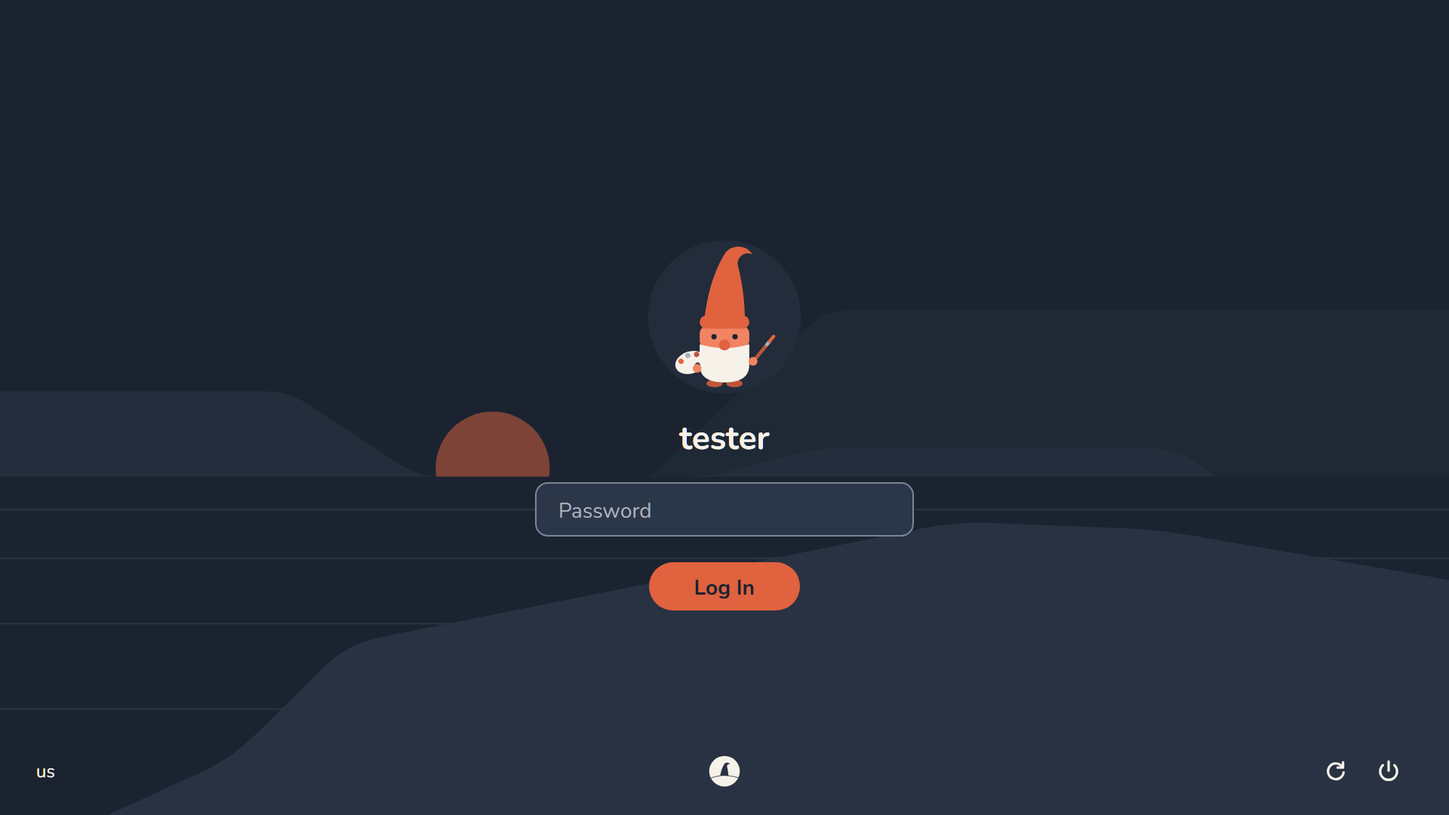
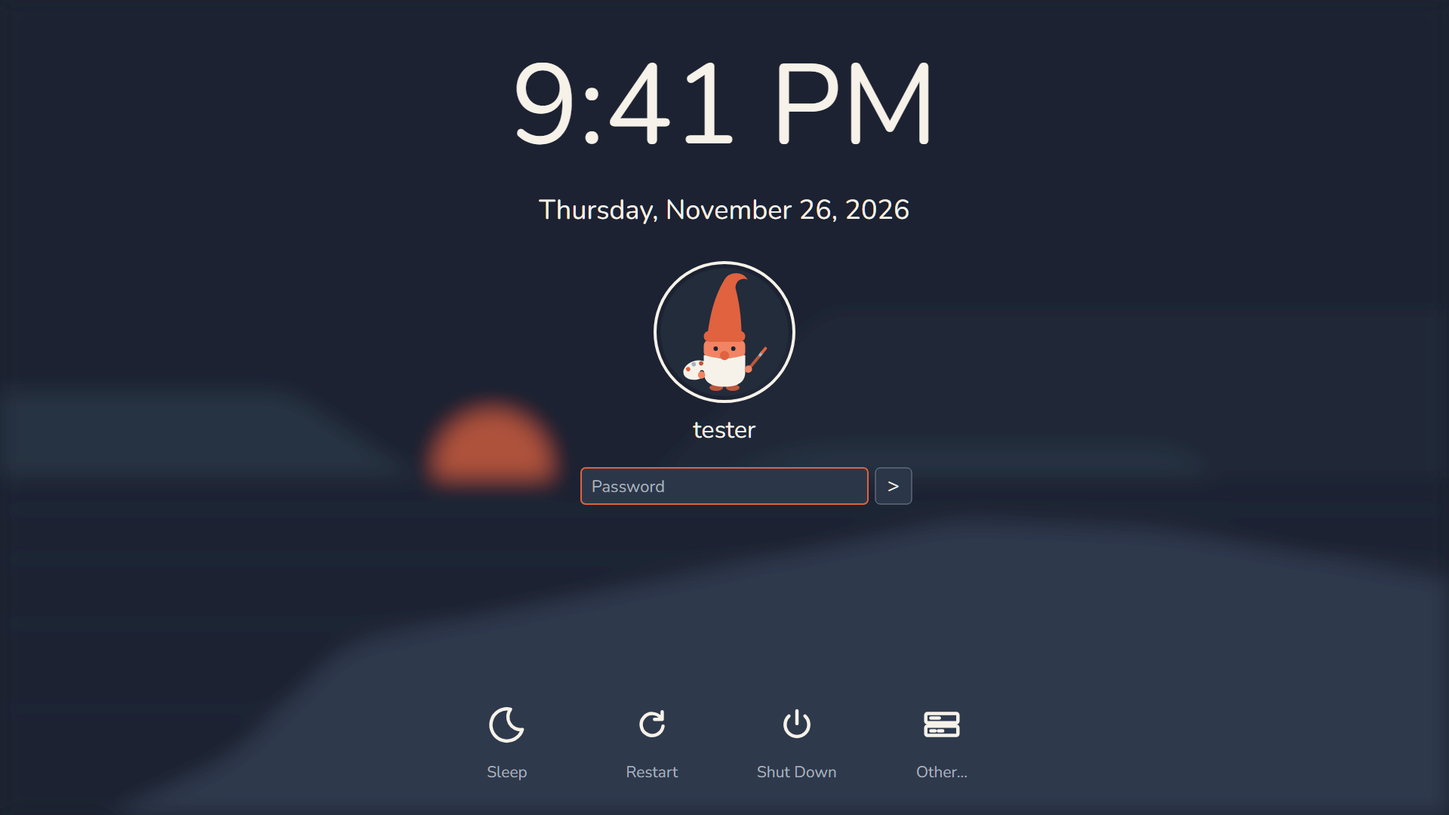
N-503: the login screen shows the nisse wallpaper
Fedora 44's display manager is Plasma Login Manager; its greeter already
takes the nisse colors, font and icons from /etc/xdg/kdeglobals, so only the
wallpaper was Fedora's. nisse-lookandfeel 0.2-6 ships
/usr/lib/plasmalogin/defaults.conf (the nisse wallpaper) and replaces Fedora's
kde-settings-plasmalogin, which ships the same file. No fork, no logo (Bert).
The login mock is redrawn to the real layout. login_check.py judges a
screenshot; the e2e passes on a real boot of the installed disk. Also fixes the
kiwi description test's grub2-script-check step, which always failed in the VM.

Claude-Session: https://claude.ai/code/session_012HaX4wM2HNi6CtaPcZCAUT

diff --git a/tools/art/boot_mocks.py b/tools/art/boot_mocks.py
@@ -120,6 +120,19 @@ def icon_restart(cx, cy, size, color):
             f'stroke-linecap="round" stroke-linejoin="round"><path d="M72 36 A26 26 0 1 0 76 54"/><path d="M74 20 L74 38 L56 38"/></g>')
 
 
+def icon_sleep(cx, cy, size, color):
+    k = size / 100
+    return (f'<g transform="translate({cx - size / 2},{cy - size / 2}) scale({k})" fill="none" stroke="{color}" stroke-width="8" '
+            f'stroke-linecap="round" stroke-linejoin="round"><path d="M58 14 A38 38 0 1 0 86 62 A30 30 0 0 1 58 14 Z"/></g>')
+
+
+def icon_other(cx, cy, size, color):
+    k = size / 100
+    return (f'<g transform="translate({cx - size / 2},{cy - size / 2}) scale({k})" fill="none" stroke="{color}" stroke-width="8" '
+            f'stroke-linecap="round" stroke-linejoin="round"><rect x="12" y="24" width="76" height="22" rx="4"/>'
+            f'<rect x="12" y="54" width="76" height="22" rx="4"/><path d="M24 35 H44"/><path d="M24 65 H34 M42 65 H52"/></g>')
+
+
 def icon_logout(cx, cy, size, color):
     k = size / 100
     return (f'<g transform="translate({cx - size / 2},{cy - size / 2}) scale({k})" fill="none" stroke="{color}" stroke-width="8" '
@@ -178,24 +191,31 @@ def _wall(mode):
     return image(svg_uri(wallpaper.scene(W, H, mode)), 0, 0, W, H)
 
 
-def login(mode):
-    dark = mode == "dark"
-    ink, soft, field, edge = (d("text"), d("text-muted"), d("surface-2"), d("outline")) if dark else (lt("text"), lt("text-muted"), lt("page"), lt("outline"))
-    accent, on_accent = (d("accent"), d("on-accent")) if dark else (lt("accent"), lt("on-accent"))
-    scrim = rect(0, 0, W, H, d("base") if dark else lt("paper"), opacity=0.5)
-    b = [_wall(mode), scrim]
-    b.append(f'<clipPath id="av"><circle cx="{W / 2}" cy="420" r="110"/></clipPath>')
-    b.append(f'<g clip-path="url(#av)">{image(uri(AVATAR), W / 2 - 110, 310, 220, 220)}</g>')
-    b.append(text(W / 2, 595, "tester", 44, ink, 700))
-    b.append(rect(W / 2 - 250, 640, 500, 70, field, rx=16, stroke=edge, sw=2))
-    b.append(text(W / 2 - 220, 686, "Password", 28, soft, 400, "start"))
-    b.append(rect(W / 2 - 100, 745, 200, 64, accent, rx=32))
-    b.append(text(W / 2, 788, "Log In", 28, on_accent, 700))
-    b.append(text(48, 1030, "us", 24, ink, 400, "start"))
-    b.append(icon_restart(W - 150, 1022, 40, ink))
-    b.append(icon_power(W - 80, 1022, 40, ink))
-    b.append(image(uri(ICON_REVERSE if dark else ROOT / "assets/logo/svg/nisse-icon.svg"), W / 2 - 22, 1000, 44, 44))
-    return frame("".join(b), d("base") if dark else lt("paper"))
+def login(mode="dark"):
+    """The login screen as Plasma Login Manager really draws it (N-503: Bert chose to keep Plasma's own greeter, no fork). nisse sets the
+    wallpaper (blurred as soon as someone touches a key) and, through the system default, the colors, the font and the icons; the layout
+    is Plasma's: the clock and the date, the round avatar with its ring, the name, the password box with its eye and the arrow, and
+    Sleep, Restart, Shut Down and Other at the bottom. Dark only: the greeter has one look, the system default. The greeter tints its
+    text warmer than the palette's Paper; the mock keeps to the palette."""
+    ink, soft, field, edge = d("text"), d("text-muted"), d("surface-2"), d("outline")
+    cx = W / 2
+    b = [f'<defs><filter id="soft" x="-5%" y="-5%" width="110%" height="110%"><feGaussianBlur stdDeviation="14"/></filter></defs>',
+         f'<g filter="url(#soft)">{_wall("dark")}</g>', rect(0, 0, W, H, d("base"), opacity=0.25)]
+    b.append(text(cx, 190, "9:41 PM", 150, ink, 400))
+    b.append(text(cx, 290, "Thursday, November 26, 2026", 36, ink, 400))
+    b.append(f'<clipPath id="av"><circle cx="{cx}" cy="440" r="92"/></clipPath>')
+    b.append(f'<g clip-path="url(#av)">{image(uri(AVATAR), cx - 92, 348, 184, 184)}</g>')
+    b.append(f'<circle cx="{cx}" cy="440" r="92" fill="none" stroke="{ink}" stroke-width="4"/>')
+    b.append(text(cx, 580, "tester", 32, ink, 400))
+    b.append(rect(cx - 190, 620, 380, 48, field, rx=6, stroke=d("accent"), sw=2))
+    b.append(text(cx - 176, 652, "Password", 22, soft, 400, "start"))
+    b.append(rect(cx + 200, 620, 48, 48, field, rx=6, stroke=edge, sw=1))
+    b.append(text(cx + 224, 652, ">", 26, ink, 400))
+    for i, (label, icon) in enumerate((("Sleep", icon_sleep), ("Restart", icon_restart), ("Shut Down", icon_power), ("Other...", icon_other))):
+        x = cx - 288 + i * 192
+        b.append(icon(x, 960, 56, ink))
+        b.append(text(x, 1030, label, 21, soft, 400))
+    return frame("".join(b), d("base"))
 
 
 def lock(mode):
@@ -250,8 +270,7 @@ SURFACES = [
     ("plymouth-boot-late", "Plymouth, Later Frame", lambda: plymouth(0.85)),
     ("splash-dark", "Plasma splash after login (N-505), dark: the n and the comet", lambda: splash("dark")),
     ("splash-light", "Plasma Splash, Light", lambda: splash("light")),
-    ("login-dark", "Login Screen (N-503), Dark", lambda: login("dark")),
-    ("login-light", "Login Screen, Light", lambda: login("light")),
+    ("login-dark", "Login Screen (N-503)", lambda: login("dark")),
     ("lock-dark", "Lock Screen (N-504), Dark", lambda: lock("dark")),
     ("lock-light", "Lock Screen, Light", lambda: lock("light")),
     ("logout-dark", "Logout, restart and shut down (N-504), dark", lambda: logout("dark")),

diff --git a/tools/vm/login_check.py b/tools/vm/login_check.py
@@ -1,0 +1,69 @@
+#!/usr/bin/env python3
+# SPDX-License-Identifier: GPL-2.0-or-later
+"""N-503: judge screenshots of the login screen (Plasma Login Manager's greeter in a VM, `vmserver.py call PORT shot`).
+
+    login_check.py --idle  SHOT [SHOT ...]    the screen nobody has touched: the nisse wallpaper sharp (dark, with the Ember sun), the clock
+    login_check.py --awake SHOT [SHOT ...]    after a key press: the greeter blurs the wallpaper, so the sun is only a soft glow
+
+The greeter's own layout (clock, avatar, password box) is Plasma's, so this judges what nisse sets: the wallpaper and the colors. It
+refuses Fedora's cityscape (bright blue-violet), a bright screen, a missing sun and a missing clock. Exit 0 when every picture passes,
+1 otherwise (the reasons are printed), 64 for a wrong command line.
+"""
+import sys
+from dataclasses import dataclass, field
+
+import numpy as np
+from PIL import Image
+
+
+@dataclass
+class Result:
+    ok: bool
+    problems: list = field(default_factory=list)
+
+
+MAX_MEAN_LUMINANCE = 55        # the nisse wallpaper is dark (measured 42); Fedora's cityscape is 63 to 76
+MAX_BLUE_SHARE = 0.02          # pixels clearly blue (Fedora's cityscape: more than a quarter of the screen, nisse: none)
+MIN_SUN_IDLE = 1500            # Ember pixels of the sharp sun (measured 5780)
+MIN_SUN_AWAKE = 300            # the blurred sun still glows (measured 674)
+MIN_CLOCK = 4000               # light peach pixels of the clock and date (measured 10000 to 12000)
+
+
+def check_login(img, awake):
+    a = np.asarray(img.convert("RGB")).astype(int)
+    r, g, b = a[:, :, 0], a[:, :, 1], a[:, :, 2]
+    problems = []
+    if a.mean() > MAX_MEAN_LUMINANCE:
+        problems.append(f"the screen is not dark enough (mean brightness {a.mean():.0f}, at most {MAX_MEAN_LUMINANCE}): not the nisse wallpaper")
+    blue = ((b - r > 60) & (b > 100)).mean()
+    if blue > MAX_BLUE_SHARE:
+        problems.append(f"{blue * 100:.0f}% of the screen is blue: this is Fedora's cityscape, not the nisse wallpaper")
+    sun = int(((r > 150) & (r - b > 90) & (g > 40) & (g < 130)).sum())
+    need = MIN_SUN_AWAKE if awake else MIN_SUN_IDLE
+    if sun < need:
+        problems.append(f"no Ember sun in the wallpaper ({sun} Ember pixels, at least {need})")
+    top = a[: a.shape[0] // 3]
+    clock = int(((top[:, :, 0] > 220) & (top[:, :, 1] > 180) & (top[:, :, 1] < 235) & (top[:, :, 2] > 130) & (top[:, :, 2] < 200)).sum())
+    if clock < MIN_CLOCK:
+        problems.append(f"no clock at the top of the screen ({clock} light peach pixels, at least {MIN_CLOCK})")
+    return Result(not problems, problems)
+
+
+def main(argv=None):
+    argv = sys.argv[1:] if argv is None else argv
+    if not argv or argv[0] not in ("--idle", "--awake") or len(argv) < 2:
+        print(__doc__)
+        return 64
+    awake = argv[0] == "--awake"
+    bad = 0
+    for p in argv[1:]:
+        res = check_login(Image.open(p), awake)
+        print(("ok   " if res.ok else "FAIL ") + p)
+        for problem in res.problems:
+            print("       " + problem)
+        bad += 0 if res.ok else 1
+    return 1 if bad else 0
+
+
+if __name__ == "__main__":
+    sys.exit(main())

diff --git a/tools/vm/tests/test_login_check.py b/tools/vm/tests/test_login_check.py
@@ -1,0 +1,58 @@
+# SPDX-License-Identifier: GPL-2.0-or-later
+"""N-503: the checker that judges a screenshot of the login screen (Plasma Login Manager's greeter in the VM). The real screenshots of the
+screen before and after the nisse wallpaper stand in as the good and the bad pictures, and damaged copies must be refused, so the
+checker is known to be able to say no."""
+import sys
+from pathlib import Path
+
+from PIL import Image, ImageDraw
+
+HERE = Path(__file__).resolve().parent
+sys.path.insert(0, str(HERE.parent))
+
+import login_check as lc  # noqa: E402
+
+SHOTS = HERE.parents[2] / "docs" / "screenshots"
+
+
+def shot(name):
+    return Image.open(SHOTS / name).convert("RGB")
+
+
+def test_the_nisse_login_screen_passes_idle_and_awake():
+    assert lc.check_login(shot("n503-login-nisse-idle.png"), awake=False).ok
+    r = lc.check_login(shot("n503-login-nisse-awake.png"), awake=True)
+    assert r.ok, r.problems
+
+
+def test_fedoras_own_cityscape_is_refused_idle_and_awake():
+    r = lc.check_login(shot("n503-login-before-fedora-idle.png"), awake=False)
+    assert not r.ok and any("blue" in p for p in r.problems), r.problems
+    r = lc.check_login(shot("n503-login-before-fedora-awake.png"), awake=True)
+    assert not r.ok and any("blue" in p for p in r.problems), r.problems
+
+
+def test_an_idle_screen_without_the_sun_is_refused():
+    img = shot("n503-login-nisse-idle.png")
+    ImageDraw.Draw(img).rectangle((300, 380, 560, 480), fill=(0x1e, 0x20, 0x24))
+    r = lc.check_login(img, awake=False)
+    assert not r.ok and any("sun" in p for p in r.problems), r.problems
+
+
+def test_a_screen_without_the_clock_is_refused():
+    img = shot("n503-login-nisse-idle.png")
+    ImageDraw.Draw(img).rectangle((380, 40, 900, 270), fill=(0x1e, 0x20, 0x24))
+    r = lc.check_login(img, awake=False)
+    assert not r.ok and any("clock" in p for p in r.problems), r.problems
+
+
+def test_a_bright_screen_is_refused():
+    img = Image.new("RGB", (1280, 800), (200, 200, 200))
+    r = lc.check_login(img, awake=False)
+    assert not r.ok and any("dark" in p for p in r.problems), r.problems
+
+
+def test_the_command_line_exits_1_on_a_bad_picture_and_0_on_a_good_one(capsys):
+    assert lc.main(["--idle", str(SHOTS / "n503-login-nisse-idle.png")]) == 0
+    assert lc.main(["--awake", str(SHOTS / "n503-login-before-fedora-awake.png")]) == 1
+    assert lc.main([]) == 64

diff --git a/tools/art/tests/test_boot_mocks.py b/tools/art/tests/test_boot_mocks.py
@@ -32,7 +32,7 @@ def drawn(name):
 
 
 def test_every_surface_the_ledger_names_is_mocked():
-    for want in ("grub-menu", "grub-menu-live", "plymouth-boot", "splash-dark", "splash-light", "login-dark", "login-light", "lock-dark", "lock-light",
+    for want in ("grub-menu", "grub-menu-live", "plymouth-boot", "splash-dark", "splash-light", "login-dark", "lock-dark", "lock-light",
                  "logout-dark", "logout-light"):
         assert want in NAMES
 
@@ -115,7 +115,7 @@ def test_the_grub_menus_name_their_entries_in_plain_words_with_a_clear_default()
 
 def test_the_ember_fill_carries_ink_text_never_paper():
     """Palette rule: Paper on Ember is only 3.1:1. Check the texts drawn on an Ember button or row in the dark mocks."""
-    for name in ("grub-menu", "grub-menu-live", "login-dark", "logout-dark"):
+    for name in ("grub-menu", "grub-menu-live", "logout-dark"):
         svg = drawn(name)
         assert boot_mocks.d("on-accent") in svg
 
@@ -148,3 +148,15 @@ def test_rendering_makes_a_1920_by_1080_png_with_the_ink_background_and_ember_bl
     assert im.getpixel((5, 5)) == tuple(int(boot_mocks.d("base")[i:i + 2], 16) for i in (1, 3, 5))
     ember = tuple(int(boot_mocks.d("accent")[i:i + 2], 16) for i in (1, 3, 5))
     assert any(im.getpixel((x, 760)) == ember for x in range(740, 1180))
+
+
+def test_the_login_mock_is_the_screen_plasma_login_really_draws():
+    """N-503 (Bert, 2026-11-26: keep Plasma's own greeter, no fork): the mock shows what the VM shows, a blurred nisse wallpaper under the
+    clock, the date, the round avatar, the name, a password box with its eye and arrow, and Sleep, Restart, Shut Down and Other at the
+    bottom. There is no Log In pill, no logo, and no light version: the greeter has one look (the system default, dark)."""
+    assert "login-light" not in NAMES
+    svg = drawn("login-dark")
+    for words in ("9:41 PM", "Thursday, November 26, 2026", "tester", "Password", "Sleep", "Restart", "Shut Down", "Other..."):
+        assert f">{words}<" in svg, words
+    assert "feGaussianBlur" in svg, "the greeter blurs the wallpaper once someone touches a key"
+    assert ">Log In<" not in svg

diff --git a/tests/build/render_menu.py b/tests/build/render_menu.py
@@ -1,0 +1,19 @@
+# SPDX-License-Identifier: GPL-2.0-or-later
+"""Fills in the nisse live ISO's GRUB menu template the way kiwi does and prints the result, for tests/build/test_kiwi_description.sh to run
+through grub2-script-check.
+
+grub2-script-check cannot parse a function defined inside an if (real GRUB can, and boots this template: the N-502 photos), so the platform
+block that defines load_video is swapped for one plain definition; everything else is checked as it is.
+
+    python tests/build/render_menu.py TEMPLATE
+"""
+import string
+import sys
+
+template = string.Template(open(sys.argv[1], encoding="ascii").read())
+out = template.substitute(search_params="--file --set=root /boot/0x12345678", terminal_output="console", boot_timeout="10",
+                          boot_timeout_style="menu", bootpath="/boot/x86_64/loader", kernel_file="linux", initrd_file="initrd",
+                          boot_options="quiet root=live:CDLABEL=nisse-0.2 rd.live.image")
+start = out.index('if [ "$grub_platform"')
+end = out.index("\nfi\n", start) + 4
+print(out[:start] + 'function load_video {\n\tinsmod all_video\n}\nset basicgfx="nomodeset"\n' + out[end:])

diff --git a/docs/planning/TASK-LEDGER.md b/docs/planning/TASK-LEDGER.md
@@ -229,7 +229,7 @@ record and N-416 reconciles them (it runs after GATE 3). Items verdict "keep" st
 - [x] **N-502** `[build]` **DONE 2026-11-26. GRUB theme, live ISO and installed system.** Bert's answers: the live ISO's menu is nisse, Computer Settings and a More Ways to Start submenu (media check, basic graphics); an installed system's is nisse, Start from Earlier Snapshots (his wording), Computer Settings and More Ways to Start (the older kernels); the countdown line reads "nisse starts in 4 s."; GRUB cannot center a row's text, so the rows are left-aligned and the mock was redrawn (grub-menu, grub-menu-live); he kept both surfaces in this task. SPIKE first (GRUB 2.12, BIOS and UEFI, QEMU): the theme draws on both and the signed UEFI GRUB has png, gfxmenu and gfxterm built in; the countdown label and bar work and fill as the time runs out; GRUB's own hint lines stay hidden; hotkeys work. Limits found and built into the tests (tools/art/grub_theme.py): the first-listed component is drawn on top, a progress bar is at least 28 px high, the selected row is as tall as the item plus two borders, the label takes one number and cannot say "1 second". LIVE ISO: tools/art/grub_theme.py draws the theme from the Ember palette (16 tests); the package nisse-grub-theme 0.1-2 makes the Nunito GRUB fonts at build time and adds GRUB's unicode font; build/kiwi/nisse/grub-x86.cfg.iso-template is nisse's own menu (Fedora's vendored one stays as published) and nisse-live.xml names it, the theme and the package; kernel line: the development ISO keeps console=ttyS0 for the tests, a release build must not (filed as N-918a); tools/vm/grub_overlay.sh, grub_boot.sh and grub_check.py (12 tests) make and photograph a 70 MB copy of the live ISO that boots to the menu, with the template filled in the way kiwi fills it: BIOS and UEFI photos match the mock (docs/screenshots/n502-grub-live-bios.png, -uefi.png); smoke-boot.sh keys updated (Up then Enter; m then Enter for the media check). INSTALLED SYSTEM: Fedora's blscfg lists every entry file as "nisse (6.19.10-300.fc44.x86_64) 0.2" and has no filter (the new --show-default options are in a module that does not register blscfg), and a GRUB function named blscfg does NOT replace it (the command wins; seen on an installed disk). What works: blscfg reads the directory in the variable blsdir, so nisse-boot 0.1-2 gains `nisse-boot menu`, which writes copies of the entry files with plain titles into /boot/loader/nisse-main (the newest kernel, "nisse") and nisse-more (older kernels, the rescue kernel) and two pointer files; 09_nisse_menu sources the pointer before 10_linux's blscfg call (no pointer file means the stock list shows: checked, it boots), 35_nisse_more_ways is the More Ways to Start submenu, 98_nisse_menu_refresh writes the rows again after grub2-mkconfig (which rewrites the options of every entry file), a kernel-install plugin keeps them current, 30_nisse_firmware is Computer Settings (Fedora's 30_uefi-firmware is switched off by the package and again after each grub2-tools update), 11_nisse_snapshots says Start from Earlier Snapshots and Go Back to the Last Good Version; the theme is turned on by 01_nisse_theme from the boot partition (never the root subvolume, which a rollback swaps), the serial console stays, and an install step copies the theme to /boot/grub2/themes/nisse. PROOF on the installed disk (tests/e2e/test_grub_menu_installed.sh, a real QEMU boot of the N-303 disk): the three packages install; the main row's options are the entry file's after grub2-mkconfig; Fedora's firmware row is gone; the screen is the approved menu with 4 rows (judged by grub_check.py; docs/screenshots/n502-grub-installed.png) and no row is titled with a kernel version; the first row boots; the hotkey m then the first row boots an older kernel entry (a second entry file was faked; docs/screenshots/n502-grub-more-ways.png); and without nisse's pointer file the stock list is there and boots. 15 new shell tests for the generator, the package tests of nisse-boot and nisse-grub-theme, and the repo tests pass. TESTS CHANGED: the kiwi description test (template, theme, package, a stray dollar sign), the ISO contents test (a boot menu block, red until the rebuild), approved-art, tracked files, the mock tests; the rollback net's own test (tests/e2e/test_boot_fallback.sh) now picks the snapshot row one row down, and its real boots all passed on the new menu (a keyboard pick of a snapshot, the counted fallback, a garbage rollback file, a missing kernel) except one wait that read the menu file too early (a race in the test's own loop on a loaded host; the loop now waits for the newest snapshot; the 30-minute run was not repeated). NOT VERIFIED: the rebuilt ISO itself (kiwi resolving the template path and copying the theme: the queued rebuild checks in docs/boot-art.md), Secure Boot enforcement (the modules are built into the signed image, but a Secure Boot boot was not run), a screen size other than 1920 x 1080 (N-502b), and a real kernel update through dnf (the plugin is tested as a script and the same code runs from nisse-boot-setup). *Source:* roadmap 1.9; submission `boot/request-grub-boot-menu-background-and-logo`. Bert's live run (2026-11-15): the menu should be much more graphical and user friendly than the stock text menu: a themed background, readable entries named in plain words, the default choice obvious, and no cryptic boot options on screen (advanced ones stay one key away). FROM N-501 (2026-11-25): the live ISO's kernel line carries `console=ttyS0` for the smoke test, and a serial console makes Plymouth force its text theme, so it also carries `plymouth.ignore-serial-consoles`; the plain "nisse" entry a person boots should not carry `console=ttyS0` at all (the smoke test boots another entry or an override), and the ISO contents test refuses a serial console without that option. *Done when:* VM screenshot of the menu on the ISO and on an installed disk. *Depends:* N-412, N-303. FROM N-501b: the menu line and the hint are "nisse starts in N seconds." and "Press E to change how nisse starts." (closed sentences); the entries stay bare labels. FROM N-501c (done): the entries are "nisse", "Earlier Versions of nisse" and "Computer Settings".
 - [x] **N-502b** `[build]` **DONE 2026-11-26. The GRUB menu fits every screen size.** Bert chose three themes (4K, 1080p, compact), then the SPIKE showed that cannot work: GRUB's gfxterm adds ";auto" to any mode list it is given (so a request never fails) and no variable or command reports the mode it got (GRUB 2.12 source, confirmed in QEMU: three tries in a loop all "succeeded" at the firmware's own 1280 x 800), so a theme chosen at run time is impossible. Bert then chose ONE layout that fits every size, and agreed the pieces shrink about 13% so the four-row menu fits a 1280 x 720 screen: logo 200 px, rows 60 px high 72 apart, row text 28 px (countdown 22, hint 18), bar 490 x 28, and every vertical position a percentage of the screen's height (logo 5%, rows 36%, countdown 76%, bar 82%, hint 93%; GRUB drops the fraction, measured). The mode list is `1920x1080,auto`. tools/art/grub_theme.py gained `layout(width, height, rows)` and the supported sizes (1920 x 1080, 1366 x 768, 1360 x 768, 1280 x 720, 1024 x 768); tests check that nothing overlaps or leaves the screen at any size, that the bar stays one size and centered, and that the selected row's space equals the others' (7 px at 28). The padding that centers the titles is the same count at any size (text and spaces scale together; every title within 12 px). The mock is drawn per size (grub-menu, -live, -1366x768, -1360x768, -1280x720, -1024x768; the sheet shows them) and grub_check.py judges a photo at its own size (4 new tests). PROOF: live ISO photos in UEFI at 1920 x 1080, 1280 x 720 and 1024 x 768 and in BIOS at the same three pass the checker at their own size (docs/screenshots/n502b-grub-uefi-*.png; the sizes come from `NISSE_GFXMODE` in grub_overlay.sh, a test-only override); the installed disk's e2e passes with the new layout at 1080p. NOT VERIFIED: 1366 x 768 itself (QEMU draws that mode with a broken stride, 1360 wide; the layout depends only on the height), the installed disk at a small size (it shares the theme), a 4K screen that offers no 1080p (the menu is whole but small), and the rebuilt ISO (queued with N-502). Fonts are now 28, 22 and 18 px (nunito-*-28/22/18.pf2). *Source:* N-502 spike. *Done when:* a VM photo of the menu at 1366 x 768 and at 3840 x 2160 fits the screen and matches its mock, and the choice is in the theme folder and the checker. *Depends:* N-502. FROM N-502c: a title's padding is worked out for the row width (TEXT_W in grub_theme.py); a theme for another size recomputes it.
 - [x] **N-502c** `[build]` **DONE 2026-11-26. The GRUB menu rows are centered.** Bert's answers: pad the titles with spaces (not pictures), and only the rows with fixed words: the changing rows (older kernels, dated snapshots) stay left-aligned. `tools/art/grub_theme.py` works out the padding from the font's advance widths (`advance`, `pad_count`, `padded`): grub2-mkfont stores every advance as whole pixels, and a Bold space is 9 px but a Regular one 8, which put a padded selected row 20 px off in the first photo, so the selected row is now **SemiBold** (space 8 px, the heaviest weight that keeps it; the mock's selected text is weight 600 too) with its own font name, "Nunito SemiBold Regular 32" (grub2-mkfont names a font from its family and only Regular or Bold, so the package passes `-n`). The padded titles are in the live template and in the grub.d snippets (30_nisse_firmware, 35_nisse_more_ways, 11_nisse_snapshots), kept equal to the computed ones by tests; "Start nisse with the Serial Port as the Console" became "Start nisse with a Serial Console" so it fits the row. The main kernel row's title is in a BootLoaderSpec copy, and GRUB's BLS parser (read in the source) skips every space after the key, so nisse-boot pads it with 39 U+00A0 written as `\302\240` (the file stays ASCII; `main_pad` is tested against the computed count). The mock (grub-menu, grub-menu-live) is centered again; `grub_check.py` gained a centered-words check (12 tests). PROOF: live ISO photos in BIOS and UEFI (docs/screenshots/n502-grub-live-bios.png, -uefi.png) have every row's words within 4 px of the screen's middle and pass the checker; the installed disk's e2e (tests/e2e/test_grub_menu_installed.sh, a real boot) passes with the centered rows judged by the same checker, the first row booting and More Ways to Start booting an older kernel entry. NOT VERIFIED: the rebuilt ISO (queued with N-502), and the submenus' changing rows stay left-aligned by decision. *Source:* Bert, after N-502. *Done when:* the live ISO's and the installed system's menu rows are centered in a VM photo (BIOS and UEFI), the mock is the approved centered one again, and the checker measures it. *Depends:* N-502; do it before N-502b so the other sizes are built once.
-- [ ] **N-503** `[build]` **Login screen theme.** Confirm the manager in Fedora 44 (the notes say plasmalogin) and brand it: background, logo, font. *Source:* roadmap 1.8. *Done when:* VM screenshot of the login screen. *Depends:* N-407, N-412. FROM N-501b: any sentence on the login screen ends with punctuation (tools/repo/sentence_punctuation.py guards what nisse ships). FROM N-501c: labels and buttons on the login screen are headline case ("Log In"); tools/repo/headline_case.py guards what nisse ships.
+- [x] **N-503** `[build]` **DONE 2026-11-26 (ISO-level check QUEUED for the next rebuild: the login block in `tests/iso/test_iso_contents.sh`). The login screen shows the nisse wallpaper.** Fedora 44's manager IS Plasma Login Manager 6.6.4 (plasmalogin; its greeter is a Plasma session of its own with the screen compiled in). VM look at an installed disk: colors, Nunito and icons were already nisse's (the greeter reads /etc/xdg/kdeglobals); only the wallpaper was Fedora's cityscape. BERT: keep Plasma's own greeter, no fork (a fork would rebuild and re-patch the package every Plasma update); no logo (the greeter blurs the wallpaper at the first key press, and has no logo slot). SHIPPED: `/usr/lib/plasmalogin/defaults.conf` in nisse-lookandfeel 0.2-6 (source assets/theme/plasmalogin/defaults.conf: org.kde.image, Image=file:///usr/share/wallpapers/nisse). TWO TRAPS FOUND IN THE VM: plasmalogin.conf.d is the daemon's folder and ignores a wallpaper (the greeter reads defaults.conf under /etc/plasmalogin.conf), and Fedora's kde-settings-plasmalogin already ships that very file, so nisse-lookandfeel Provides/Obsoletes it and kiwi ignores it. The login mock was redrawn to the real layout (dark only; the Log In pill, the logo and the light version are gone). tools/vm/login_check.py judges a screenshot (dark, not blue, the Ember sun sharp when idle and soft when awake, the clock; 6 tests, refuses Fedora's picture); tests/e2e/test_login_screen.sh PASSES on a real boot of the installed disk with the built package (it replaces Fedora's, and idle and awake pass; photos docs/screenshots/n503-login-nisse-*.png against n503-login-before-fedora-*.png). ALSO FIXED: the kiwi description test's grub2-script-check step had always failed in the build VM (it cannot parse a function defined inside an if, which real GRUB boots); tests/build/render_menu.py swaps that block, so the menu is checked everywhere else. NOT VERIFIED: the rebuilt ISO; other screen sizes (the wallpaper package covers 17 shapes; only 1280 x 800 was photographed); a user with a real avatar. *Source:* roadmap 1.8. *Done when:* VM screenshot of the login screen. *Depends:* N-407, N-412. FROM N-501b: any sentence on the login screen ends with punctuation (tools/repo/sentence_punctuation.py guards what nisse ships). FROM N-501c: labels and buttons on the login screen are headline case ("Log In"); tools/repo/headline_case.py guards what nisse ships.
 - [ ] **N-504** `[build]` **Lock screen and logout screens.** *Source:* submission `boot/request-lock-screen-scene`, `request-logout-shutdown-restart-screen`. *Done when:* VM screenshots of each. *Depends:* N-412. FROM N-501b: the mock lines are "Type your password to unlock." and "Shutting down in 30 seconds."; "What would you like to do?" already closes. FROM N-501c: the buttons are "Log Out", "Restart", "Shut Down" and "Cancel".
 - [ ] **N-505** `[build]` **Plasma splash after login** with the comet spinner and the "n". *Source:* submission `*-splash-images-*`. *Done when:* VM capture of the splash. *Depends:* N-403, N-404. FROM N-501b: the splash shows no text; if text is added it ends with punctuation.
 - [x] **N-506** `[build]` **DONE 2026-11-19, inside N-414 (nothing built is left orphaned for a later step): the approved sounds are the `nisse-sounds` theme, selected by the system default and answering to the names Plasma 6.8 asks for, with the panel's approval notice asking for its own sound; see N-414 for the tests and the queued ISO checks. Bert's ear check on the real session stays at GATE 3.** Login sound wiring. *Source:* submission sounds; roadmap 1.12. *Done when:* config and file are shipped and a test checks them; Bert's ear check is at GATE 3. *Depends:* N-414.

diff --git a/docs/boot-art.md b/docs/boot-art.md
@@ -24,7 +24,7 @@ animate the sliding blocks; Plymouth does. It works, so the bar stays on the GRU
 | `grub-menu`, `grub-menu-live`, `grub-menu-1366x768`, `-1360x768`, `-1280x720`, `-1024x768` | GRUB menu (N-502), installed system and live ISO; the other sizes are the same menu on smaller screens (N-502b); rows centered by padded titles (N-502c) | Ink background; the stacked logo with the name below, 200 px wide near the top; entries in plain words, the default as an Ember row with Ink text. Installed: **nisse**, **Start from Earlier Snapshots** (the snapshot menu of N-307), **Computer Settings** (the firmware entry) and **More Ways to Start** (the older kernels). Live ISO: **nisse**, **Computer Settings** (UEFI only) and **More Ways to Start** (check the media, basic graphics). The countdown line ("nisse starts in 4 s.") and bar, and a quiet hint "Press E to change how nisse starts.". No kernel versions, ids or options on the main screen (advanced ones stay one key away, Bert's 2026-11-15 note) |
 | `plymouth-boot`, `-early`, `-late` | Plymouth (N-501) | Ink; the stacked logo 300 wide, centered a little above the middle; the boot bar below it. Three frames show the blocks moving |
 | `splash-dark`, `splash-light` | Plasma splash after login (N-505) | solid Ink (or Paper on the light look); the nisse **n** with the tipped hat, 260 px, inside the comet ring (the N-404 spinner in Ember), centered. Nothing else |
-| `login-dark`, `login-light` | Login screen (N-503) | the wallpaper (Fjell Layers) under a 50% Ink (or Paper) veil; a round avatar (220 px), the user name, a password field, an Ember **Log in** pill with Ink text (the light look: brick with Paper); keyboard layout bottom left, the small logo bottom center, restart and shut down bottom right |
+| `login-dark` | Login screen (N-503) | what Plasma Login Manager really draws (redrawn 2026-11-26 after the VM look; Bert chose to keep Plasma's own greeter): the nisse wallpaper (Fjell Layers, dark) blurred, the clock and date, a round avatar with its ring, the user name, a password box with its eye and arrow, and Sleep, Restart, Shut Down and Other at the bottom. No Log In pill, no logo, no light version (the greeter has one look, the system default, dark) |
 | `lock-dark`, `lock-light` | Lock screen (N-504) | the wallpaper under a 50% veil; a large light-weight clock and the date, kept above the sun so they never cross it; the password field low in the screen; the small logo and name bottom left |
 | `logout-dark`, `logout-light` | Log out, restart, shut down (N-504) | the wallpaper under an 82% veil; "What would you like to do?"; three round buttons (Log out, Restart, Shut down, the default selected in Ember with an Ink icon); the countdown line and **Cancel** |
 
@@ -154,6 +154,35 @@ command wins over a function of the same name). What does: `blscfg` reads the di
 - **After the next ISO rebuild:** `tests/iso/test_iso_contents.sh` (the boot screen block), then
   `tools/vm/plymouth_overlay.sh ISO DIR --plain`, `tools/vm/plymouth_boot.sh` and `tools/vm/plymouth_check.py boot` on the rebuilt ISO's
   own initramfs, and the same initramfs check (`tests/iso/plymouth_initrd_check.sh`) on an installed disk's initramfs.
+
+## The login screen: built (N-503)
+
+**What Fedora 44 uses:** Plasma Login Manager 6.6.4 (`plasmalogin.service`, enabled by nisse-release; the notes were right). It is a fork of
+SDDM with a new greeter: a Plasma session of its own, run as the user `plasmalogin` (home `/var/lib/plasmalogin`), whose screen is QML compiled
+into `/usr/libexec/plasma-login-greeter`. Nothing in it can be re-laid-out without forking the package (Bert chose not to, 2026-11-26).
+
+**What nisse sets, and where:**
+- **Colors, font, icons, cursor: nothing to do.** The greeter reads `/etc/xdg/kdeglobals` like every Plasma session, so the NisseEmber colors, Nunito and
+  the nisse icons already show (seen in the VM before any login change; `docs/screenshots/n503-login-before-fedora-*.png`).
+- **Wallpaper:** `/usr/lib/plasmalogin/defaults.conf`, the distro defaults file the greeter reads under the administrator's `/etc/plasmalogin.conf`
+  (shipped by `nisse-lookandfeel` 0.2-6, source `assets/theme/plasmalogin/defaults.conf`): `[Greeter] WallpaperPluginId=org.kde.image` and
+  `[Greeter][Wallpaper][org.kde.image][General] Image=file:///usr/share/wallpapers/nisse`. The whole nisse wallpaper package is named, so the
+  dark picture of the right shape is chosen by the dark color scheme. **Not** `/usr/lib/plasmalogin/plasmalogin.conf.d/`: that folder is the
+  daemon's, and a wallpaper placed there is ignored (tried first in the VM). The KCM's "Apply Plasma Settings" copies a user's own
+  kdeglobals into `/var/lib/plasmalogin/.config`, which would override these defaults; nisse does not do that.
+- **No logo** (Bert's call): the greeter has no slot for one, so it would have to be painted into the wallpaper, and the greeter blurs the wallpaper
+  as soon as a key is pressed or the mouse moves.
+- **The greeter does not appear on the live ISO** (livesys logs in automatically); it is what an installed disk shows.
+
+**Proof (VM, the installed disk with the package's file in place):** `docs/screenshots/n503-login-nisse-idle.png` and `-awake.png` against
+the Fedora cityscape before (`n503-login-before-fedora-*.png`). `tools/vm/login_check.py --idle|--awake SHOT` judges a screenshot: dark, not
+blue, the Ember sun (sharp when idle, a soft glow when awake) and the clock; tests keep it able to refuse Fedora's picture and a missing sun or clock.
+`tests/e2e/test_login_screen.sh` runs it against a real boot of the installed disk with the built package.
+
+**Replacing Fedora's file.** Fedora's `kde-settings-plasmalogin` (a package of one file) already ships `/usr/lib/plasmalogin/defaults.conf`,
+naming Fedora's wallpaper, and plasma-login-manager recommends it. nisse-lookandfeel therefore `Provides` and `Obsoletes` it (the same
+pattern as nisse-setup for plasma-setup) and kiwi ignores it; the e2e installs the package on a disk that has Fedora's and checks it is replaced.
+**After the next ISO rebuild:** the login block of `tests/iso/test_iso_contents.sh` (the defaults file, no kde-settings-plasmalogin, the greeter is in the image).
 
 ## Decisions and open points handed on
 
